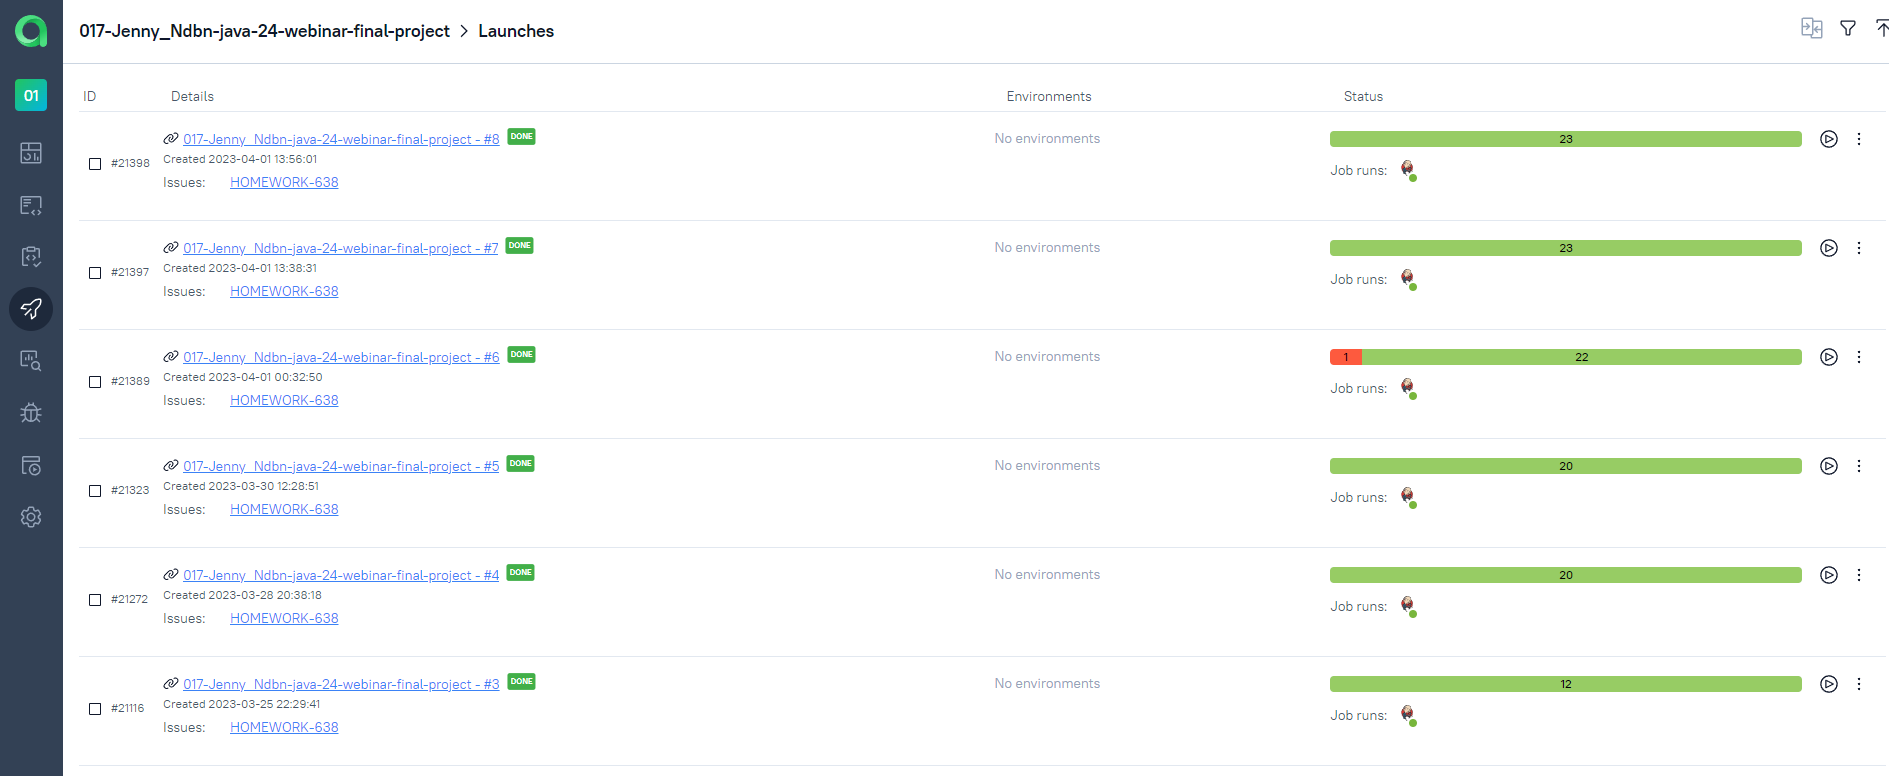
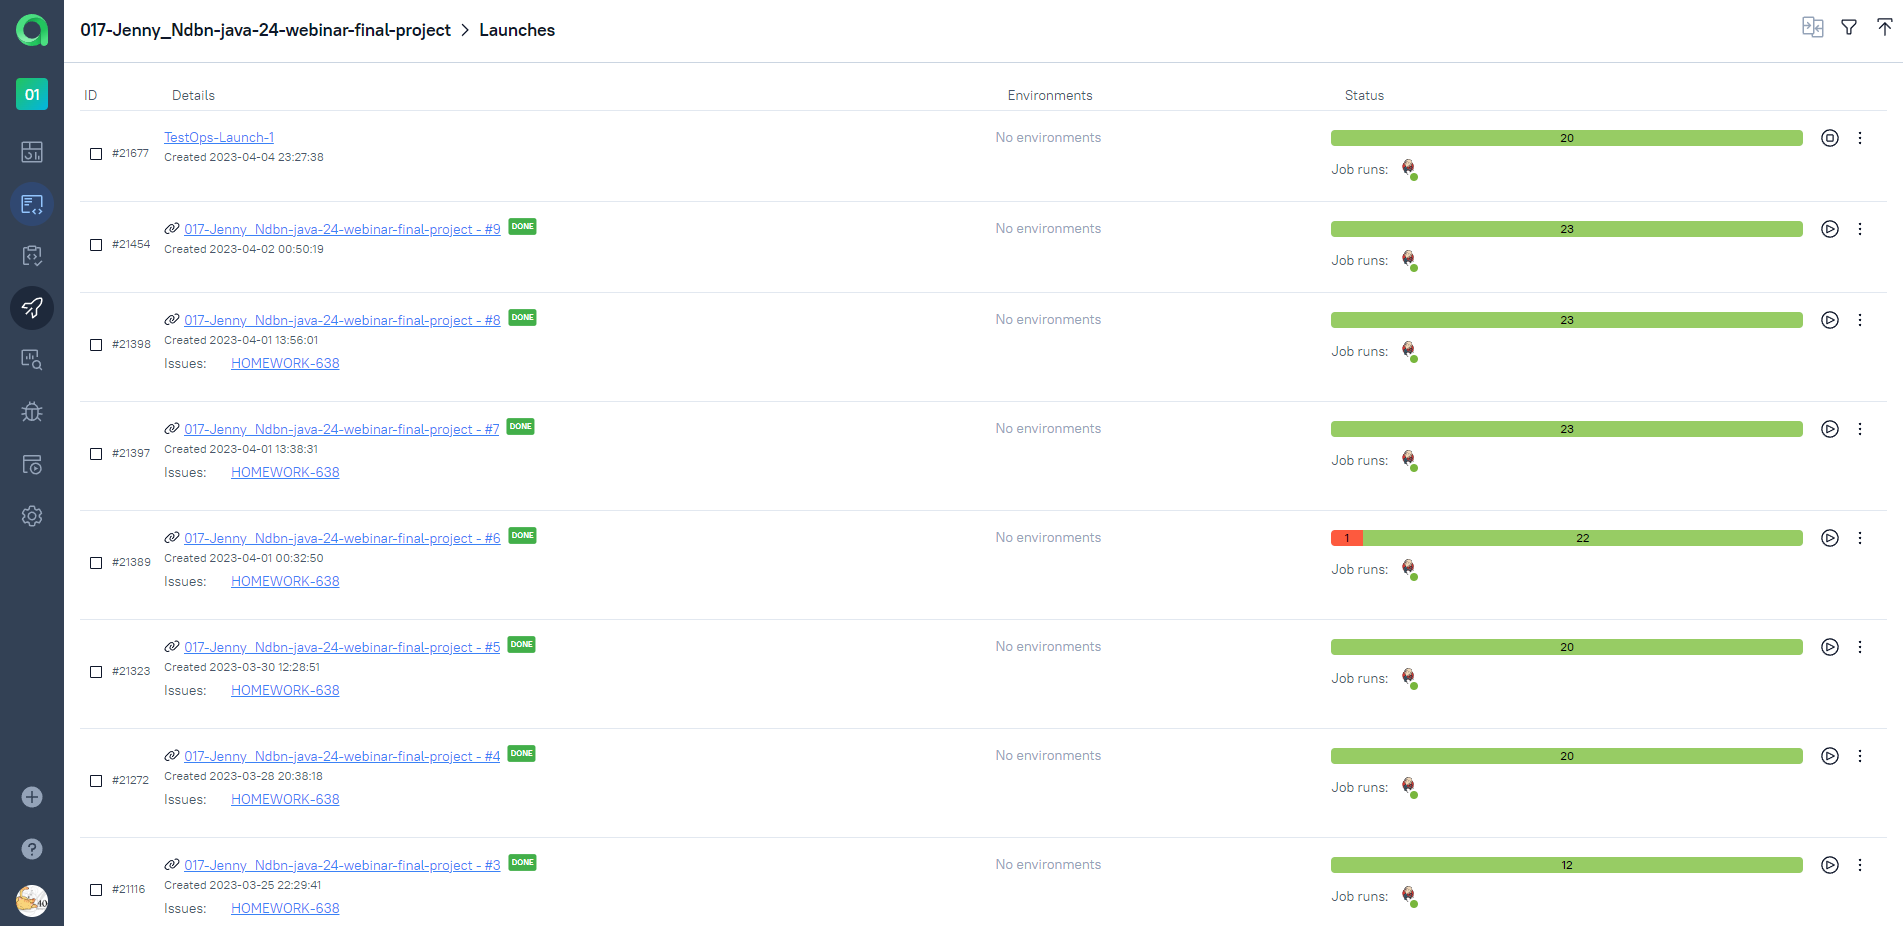
added launch From Allure TestOps

diff --git a/README.md b/README.md
@@ -26,6 +26,7 @@
 - [x] Использование request/response спецификаций для API тестов
 - [x] Custom Allure listener для API requests/responses логов
 - [x] Интеграция с `Allure TestOps`
+- [x] Возможность запуска тестов напрямую из `Allure TestOps`
 - [x] Интеграция с `Jira`
 - [x] Автотесты оформлены как тестовая документация посредством аннотаций `Allure`
 
@@ -223,6 +224,16 @@ E --> J[envWeb=remote]
 ### Пример мануального тест-кейса
 <p align="center">
 <img src="images/screenshots/AllureTestOpsManualTest.PNG">
+</p>
+
+### Запуски сборок
+<p align="center">
+<img src="images/screenshots/AllureTestOpsLaunches.PNG">
+</p>
+
+### Запуск выбранных тестов из Allure TestOps
+<p align="center">
+<img src="images/screenshots/AllureTestOpsLaunchFromTestOps.PNG">
 </p>
 
 
